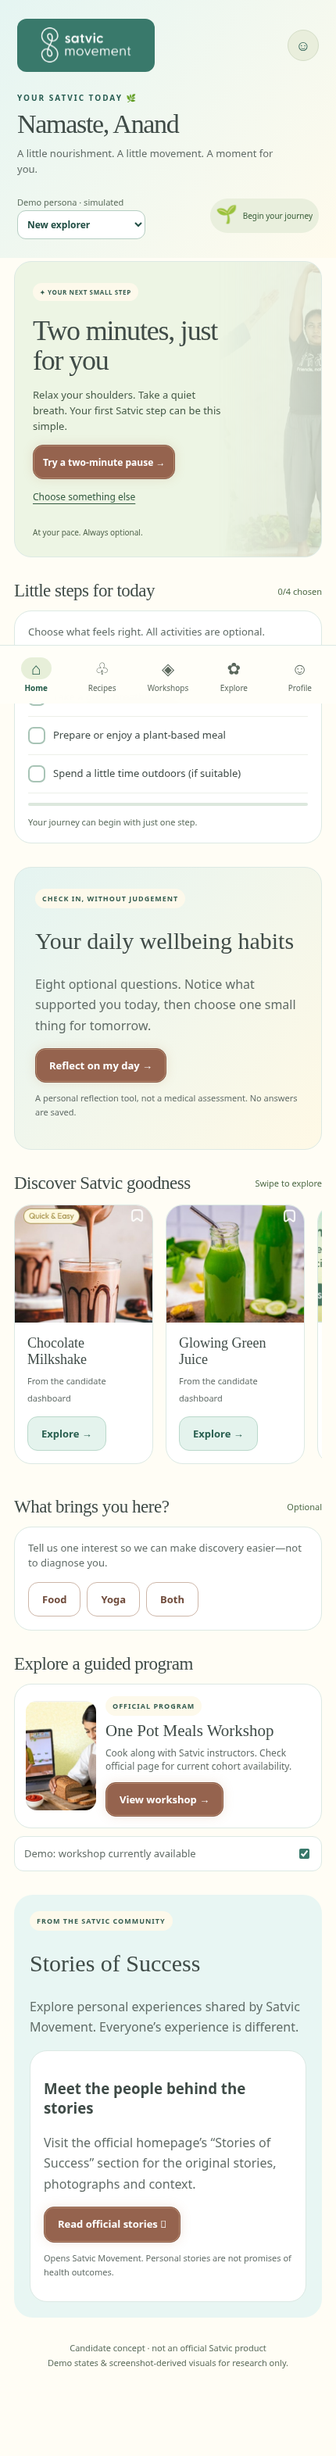
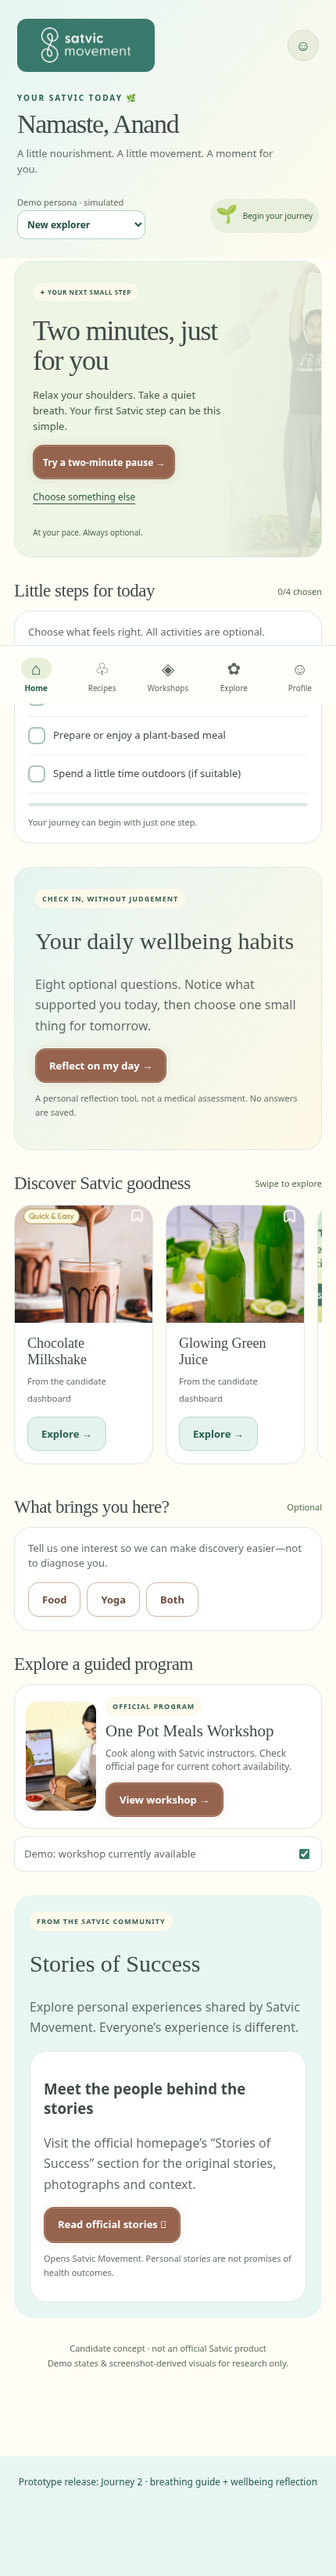
Version prototype assets and show release label for Pages verification

diff --git a/index.html b/index.html
@@ -8,11 +8,12 @@
     />
     <meta name="theme-color" content="#e4f3e9" />
     <title>Your Satvic Today · Product concept</title>
-    <link rel="stylesheet" href="styles.css" />
+    <link rel="stylesheet" href="styles.css?v=journey-2" />
   </head>
   <body>
     <main id="app" class="shell"></main>
-    <script src="journey.js"></script>
-    <script src="app.js"></script>
+    <p style="text-align:center;font:12px system-ui;color:#285d52;padding:12px 12px 100px">Prototype release: Journey 2 · breathing guide + wellbeing reflection</p>
+    <script src="journey.js?v=journey-2"></script>
+    <script src="app.js?v=journey-2"></script>
   </body>
 </html>
